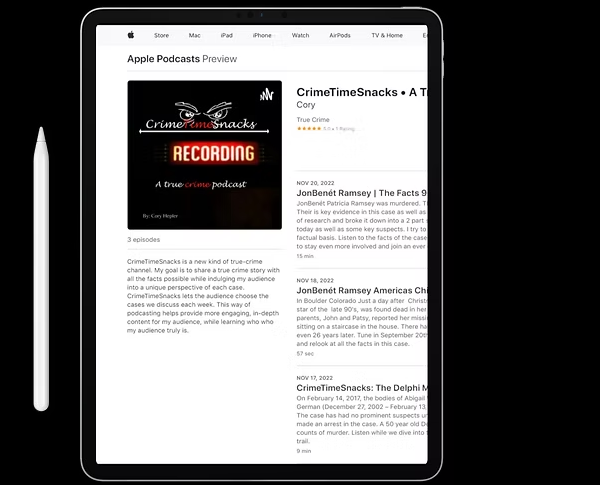
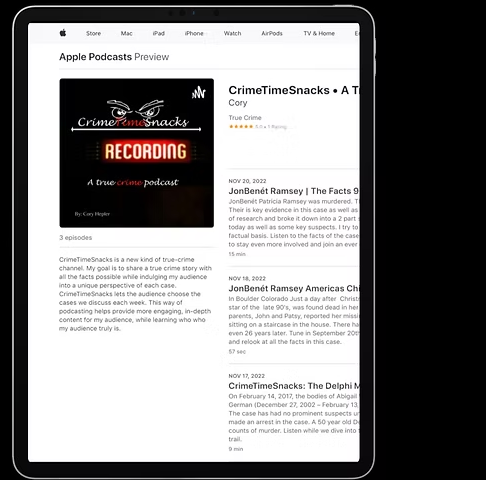
Hero: crop the Pencil out of the iPad and move it lower
- Re-cropped ipad.png starting right of the Apple Pencil (pencil removed).
- Added a 2rem gap so the iPad sits below the phones instead of overlapping.
- CSS cache version -> 2026d.

Changed region(s): [[0.0, 0.0, 0.7716, 1.0]]

diff --git a/merch.html b/merch.html
@@ -17,7 +17,7 @@
     <meta name="twitter:description" content="A true crime podcast exploring unsolved cases, murders, and mysteries.">
     <meta name="twitter:image" content="https://crimetime.vercel.app/images/logo.png">
     <link rel="alternate" type="application/rss+xml" title="CrimeTimeSnacks Podcast" href="/feed.xml">
-    <link rel="stylesheet" href="css/style.css?v=2026c"> <style>
+    <link rel="stylesheet" href="css/style.css?v=2026d"> <style>
         /* Add any specific styles for the merch page here */
         .merch-container {
             display: flex;

diff --git a/blog-posts/bryan-kohberger-from-arrest-to-courtroom.html b/blog-posts/bryan-kohberger-from-arrest-to-courtroom.html
@@ -25,7 +25,7 @@
     <link rel="preconnect" href="https://fonts.gstatic.com" crossorigin>
     <link href="https://fonts.googleapis.com/css2?family=Montserrat:wght@400;600;700&family=Roboto:wght@300;400;500;700&display=swap" rel="stylesheet">
     <link rel="stylesheet" href="https://cdnjs.cloudflare.com/ajax/libs/font-awesome/6.0.0/css/all.min.css">
-    <link rel="stylesheet" href="/css/style.css?v=2026c">
+    <link rel="stylesheet" href="/css/style.css?v=2026d">
     <script type="application/ld+json">
 {
   "@context": "https://schema.org",

diff --git a/blog-posts/courtney-clenney-the-case-explained.html b/blog-posts/courtney-clenney-the-case-explained.html
@@ -25,7 +25,7 @@
     <link rel="preconnect" href="https://fonts.gstatic.com" crossorigin>
     <link href="https://fonts.googleapis.com/css2?family=Montserrat:wght@400;600;700&family=Roboto:wght@300;400;500;700&display=swap" rel="stylesheet">
     <link rel="stylesheet" href="https://cdnjs.cloudflare.com/ajax/libs/font-awesome/6.0.0/css/all.min.css">
-    <link rel="stylesheet" href="/css/style.css?v=2026c">
+    <link rel="stylesheet" href="/css/style.css?v=2026d">
     <script type="application/ld+json">
 {
   "@context": "https://schema.org",

diff --git a/blog-posts/delphi-case-from-bridge-guy-to-trial.html b/blog-posts/delphi-case-from-bridge-guy-to-trial.html
@@ -25,7 +25,7 @@
     <link rel="preconnect" href="https://fonts.gstatic.com" crossorigin>
     <link href="https://fonts.googleapis.com/css2?family=Montserrat:wght@400;600;700&family=Roboto:wght@300;400;500;700&display=swap" rel="stylesheet">
     <link rel="stylesheet" href="https://cdnjs.cloudflare.com/ajax/libs/font-awesome/6.0.0/css/all.min.css">
-    <link rel="stylesheet" href="/css/style.css?v=2026c">
+    <link rel="stylesheet" href="/css/style.css?v=2026d">
     <script type="application/ld+json">
 {
   "@context": "https://schema.org",

diff --git a/blog-posts/genetic-genealogy-changing-cold-cases.html b/blog-posts/genetic-genealogy-changing-cold-cases.html
@@ -25,7 +25,7 @@
     <link rel="preconnect" href="https://fonts.gstatic.com" crossorigin>
     <link href="https://fonts.googleapis.com/css2?family=Montserrat:wght@400;600;700&family=Roboto:wght@300;400;500;700&display=swap" rel="stylesheet">
     <link rel="stylesheet" href="https://cdnjs.cloudflare.com/ajax/libs/font-awesome/6.0.0/css/all.min.css">
-    <link rel="stylesheet" href="/css/style.css?v=2026c">
+    <link rel="stylesheet" href="/css/style.css?v=2026d">
     <script type="application/ld+json">
 {
   "@context": "https://schema.org",

diff --git a/blog-posts/jonbenet-ramsey-why-the-case-stays-open.html b/blog-posts/jonbenet-ramsey-why-the-case-stays-open.html
@@ -25,7 +25,7 @@
     <link rel="preconnect" href="https://fonts.gstatic.com" crossorigin>
     <link href="https://fonts.googleapis.com/css2?family=Montserrat:wght@400;600;700&family=Roboto:wght@300;400;500;700&display=swap" rel="stylesheet">
     <link rel="stylesheet" href="https://cdnjs.cloudflare.com/ajax/libs/font-awesome/6.0.0/css/all.min.css">
-    <link rel="stylesheet" href="/css/style.css?v=2026c">
+    <link rel="stylesheet" href="/css/style.css?v=2026d">
     <script type="application/ld+json">
 {
   "@context": "https://schema.org",

diff --git a/blog-posts/menendez-brothers-resentencing-explained.html b/blog-posts/menendez-brothers-resentencing-explained.html
@@ -25,7 +25,7 @@
     <link rel="preconnect" href="https://fonts.gstatic.com" crossorigin>
     <link href="https://fonts.googleapis.com/css2?family=Montserrat:wght@400;600;700&family=Roboto:wght@300;400;500;700&display=swap" rel="stylesheet">
     <link rel="stylesheet" href="https://cdnjs.cloudflare.com/ajax/libs/font-awesome/6.0.0/css/all.min.css">
-    <link rel="stylesheet" href="/css/style.css?v=2026c">
+    <link rel="stylesheet" href="/css/style.css?v=2026d">
     <script type="application/ld+json">
 {
   "@context": "https://schema.org",

diff --git a/blog-posts/watts-family-reading-the-warning-signs.html b/blog-posts/watts-family-reading-the-warning-signs.html
@@ -25,7 +25,7 @@
     <link rel="preconnect" href="https://fonts.gstatic.com" crossorigin>
     <link href="https://fonts.googleapis.com/css2?family=Montserrat:wght@400;600;700&family=Roboto:wght@300;400;500;700&display=swap" rel="stylesheet">
     <link rel="stylesheet" href="https://cdnjs.cloudflare.com/ajax/libs/font-awesome/6.0.0/css/all.min.css">
-    <link rel="stylesheet" href="/css/style.css?v=2026c">
+    <link rel="stylesheet" href="/css/style.css?v=2026d">
     <script type="application/ld+json">
 {
   "@context": "https://schema.org",

diff --git a/blog-posts/wilmington-dmv-what-we-know.html b/blog-posts/wilmington-dmv-what-we-know.html
@@ -25,7 +25,7 @@
     <link rel="preconnect" href="https://fonts.gstatic.com" crossorigin>
     <link href="https://fonts.googleapis.com/css2?family=Montserrat:wght@400;600;700&family=Roboto:wght@300;400;500;700&display=swap" rel="stylesheet">
     <link rel="stylesheet" href="https://cdnjs.cloudflare.com/ajax/libs/font-awesome/6.0.0/css/all.min.css">
-    <link rel="stylesheet" href="/css/style.css?v=2026c">
+    <link rel="stylesheet" href="/css/style.css?v=2026d">
     <script type="application/ld+json">
 {
   "@context": "https://schema.org",

diff --git a/videos.html b/videos.html
@@ -17,7 +17,7 @@
     <meta name="twitter:description" content="A true crime podcast exploring unsolved cases, murders, and mysteries.">
     <meta name="twitter:image" content="https://crimetime.vercel.app/images/logo.png">
     <link rel="alternate" type="application/rss+xml" title="CrimeTimeSnacks Podcast" href="/feed.xml">
-    <link rel="stylesheet" href="css/style.css?v=2026c">
+    <link rel="stylesheet" href="css/style.css?v=2026d">
     <style>
         /* Updated styles for video grid */
         .video-grid {

diff --git a/404.html b/404.html
@@ -24,7 +24,7 @@
     <link rel="preconnect" href="https://fonts.gstatic.com" crossorigin>
     <link href="https://fonts.googleapis.com/css2?family=Montserrat:wght@400;600;700&family=Roboto:wght@300;400;500;700&display=swap" rel="stylesheet">
     <link rel="stylesheet" href="https://cdnjs.cloudflare.com/ajax/libs/font-awesome/6.0.0/css/all.min.css">
-    <link rel="stylesheet" href="/css/style.css?v=2026c">
+    <link rel="stylesheet" href="/css/style.css?v=2026d">
 </head>
 <body>
     <header>

diff --git a/blog.html b/blog.html
@@ -25,7 +25,7 @@
     <link rel="preconnect" href="https://fonts.gstatic.com" crossorigin>
     <link href="https://fonts.googleapis.com/css2?family=Montserrat:wght@400;600;700&family=Roboto:wght@300;400;500;700&display=swap" rel="stylesheet">
     <link rel="stylesheet" href="https://cdnjs.cloudflare.com/ajax/libs/font-awesome/6.0.0/css/all.min.css">
-    <link rel="stylesheet" href="/css/style.css?v=2026c">
+    <link rel="stylesheet" href="/css/style.css?v=2026d">
 </head>
 <body>
     <header>
